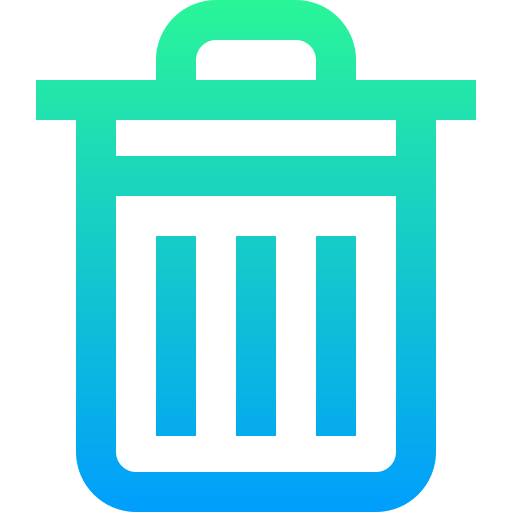
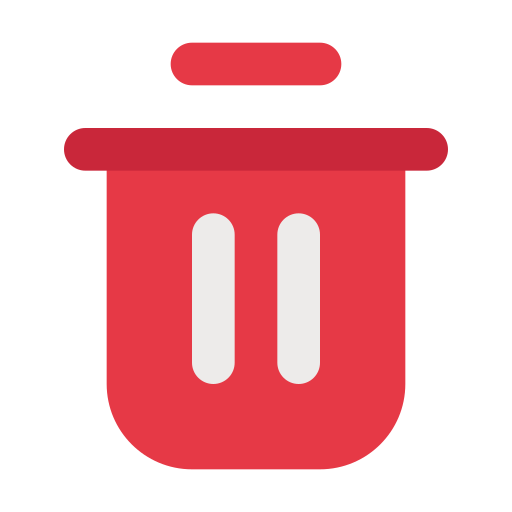
act

diff --git a/vista/dispositivos.php b/vista/dispositivos.php
@@ -14,14 +14,31 @@
     <script src="https://cdn.jsdelivr.net/npm/sweetalert2@11"></script>
     <script src="https://unpkg.com/sweetalert/dist/sweetalert.min.js"></script>
     <link rel="stylesheet" href="estilos/estilosDispositivos.css">
+    <style>
+    .imagen-editar {
+        cursor: pointer;
+    }
 
+    .acciones {
+        display:flex;    
+    }
+    .acciones img {
+        max-width: 40px;
+        cursor: pointer;
+        transition: transform 0.3s ease-in-out;
+    }
+
+    .acciones img:hover {
+        transform: scale(1.2);
+    }
+</style>
 </head> 
 
 <body>
     <div class="contentSeccion">
         <div class="up">
             <header class="headerTabla">
-                <h1>Dispositivos</h1>
+            <h1 style="font-size: 28px; font-weight: bold; color: #003363; text-transform: uppercase; border-bottom: 2px solid #003363; ">dispositivos</h1>
                 <form class="form-inline" id="searchBar">
                   
 
@@ -46,20 +63,20 @@
         </a>
         <div class="container" style="margin-top: 10px !important;">
             <div class="table-responsive">
-                <table class="table">
+                <table class="table table-striped table-hover">
                     <thead class="table-dark">
                         <tr>
-                            <th>Id Dispositivo</th>
-                            <th>Tipo de dispositivo</th>
-                            <th>Modelo</th>
-                            <th>Número de Serie</th>
-                            <th>Marca</th>
-                            <th>Precio</th>
-                            <th>Estado del Dispositivo</th>
-                            <th>Fecha de Compra</th>
-                            <th>Notas</th>
-                            <th>Imagen</th>
-                            <th>Acciones</th>
+                            <th>ID</th>
+                            <th>TIPO</th>
+                            <th>MODELO</th>
+                            <th>NUMERO DE SERIE</th>
+                            <th>MARCA</th>
+                            <th>PRECIO</th>
+                            <th>ESTADO</th>
+                            <th>FECHA DE COMPRA</th>
+                            <th>NOTAS</th>
+                            <th>IMAGEN</th>
+                            <th></th>
                         </tr>
                     </thead>
                     <tbody>
@@ -104,13 +121,25 @@
                             <td>{$item[8]}</td>
                             <td><img src='{$item[9]}' alt='' height='50'></td>
                             <td>
-                                <button type='button' class='btn btn-info' onclick=\"window.location.href='index.php?seccion=editarDispositivos&id_dispositivo={$item[0]}'\">Editar</button>
-                                <button type='button' class='btn btn-danger' onclick='confirmarBorrar({$item[0]});'>Borrar</button>
-                            </td>
+                            <div class='acciones'>
+                                <img src='images/editar.png' alt='Editar' style='max-width:40px;' class='imagen-editar' id='editar-{$item[0]}'>
+                                <img src='images/basura.png' alt='Borrar' style='max-width:40px; cursor:pointer;' onclick='confirmarBorrar({$item[0]});'>
+                            </div> 
+                        </td>
+                        
+
                         </tr>
-                    ";
-                    
+                        ";
+
+                        // Agregar evento de clic para redireccionar al hacer clic en la imagen
+                        echo "<script>
+                                document.getElementById('editar-{$item[0]}').addEventListener('click', function() {
+                                    window.location.href = 'index.php?seccion=editarDispositivos&id_dispositivo={$item[0]}';
+                                });
+                            </script>";
                     }
+
+
                     ?>
                     </tbody>
                 </table>
@@ -119,31 +148,40 @@
 
     </div>
 
-    <div class="modal" id="confirmarBorrarModal">
-        <div class="modal-content">
-            <span class="close-modal" onclick="cerrarModal()">&times;</span>
-            <h4>Confirmar Eliminación</h4>
-            <p>¿Estás seguro de que deseas eliminar este dispositivo?</p>
-            <button class="btn-danger" id="btnBorrarModal">Borrar</button>
-            <button class="btn-secondary" onclick="cerrarModal()">Cancelar</button>
-        </div>
-    </div>
-
 
 
     <script>
+
+function confirmarBorrar(id_dispositivo) {
+    Swal.fire({
+        title: '¿Estas seguro?',
+        text: "El dispositivo se eliminara definitivamente.",
+        icon: 'warning',
+        showCancelButton: true,
+        cancelButtonText: "Cancelar",
+        confirmButtonColor: '#3085d6',
+        cancelButtonColor: '#d33',
+        confirmButtonText: 'Si, eliminar!'
+    }).then((result) => {
+        if (result.isConfirmed) {
+            window.location.href = "index.php?seccion=dispositivos&accion=eliminarDispositivos&id_dispositivo=" + id_dispositivo;
+        }
+    });
+}
+
+
+    
+
+        // Agrega un evento de clic a la imagen
+    document.getElementById('editar-{$item[0]}').addEventListener('click', function() {
+        // Redirige a la página deseada al hacer clic en la imagen
+        window.location.href = 'index.php?seccion=editarDispositivos&id_dispositivo={$item[0]}';
+    });
     document.addEventListener('DOMContentLoaded', function() {
         var headerTabla = document.querySelector('.headerTabla');
         headerTabla.classList.add('show');
     });
 
-    function confirmarBorrar(id_dispositivo) {
-        document.getElementById('confirmarBorrarModal').style.display = 'flex';
-        document.getElementById('btnBorrarModal').onclick = function() {
-            window.location.href = "index.php?seccion=dispositivos&accion=eliminarDispositivos&id_dispositivo=" +
-                id_dispositivo;
-        };
-    }
 
     function cerrarModal() {
         document.getElementById('confirmarBorrarModal').style.display = 'none';
